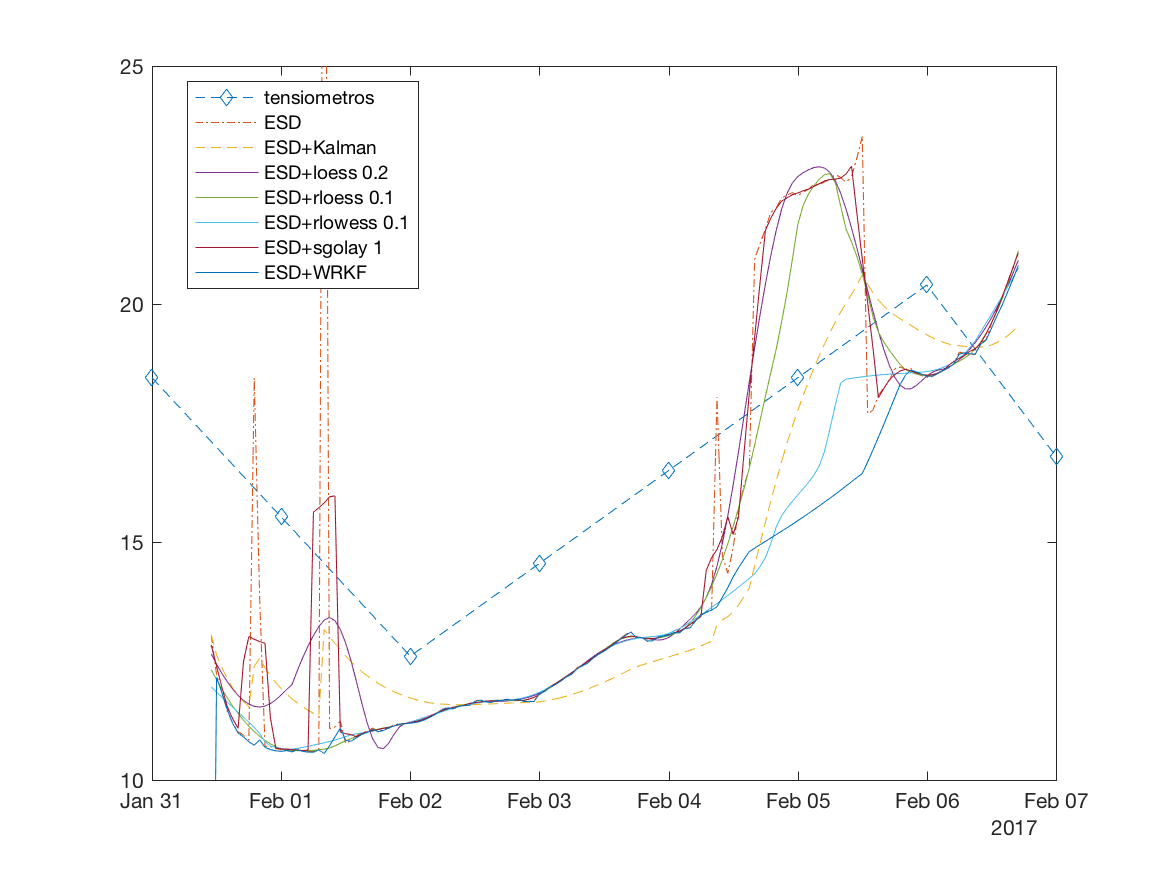
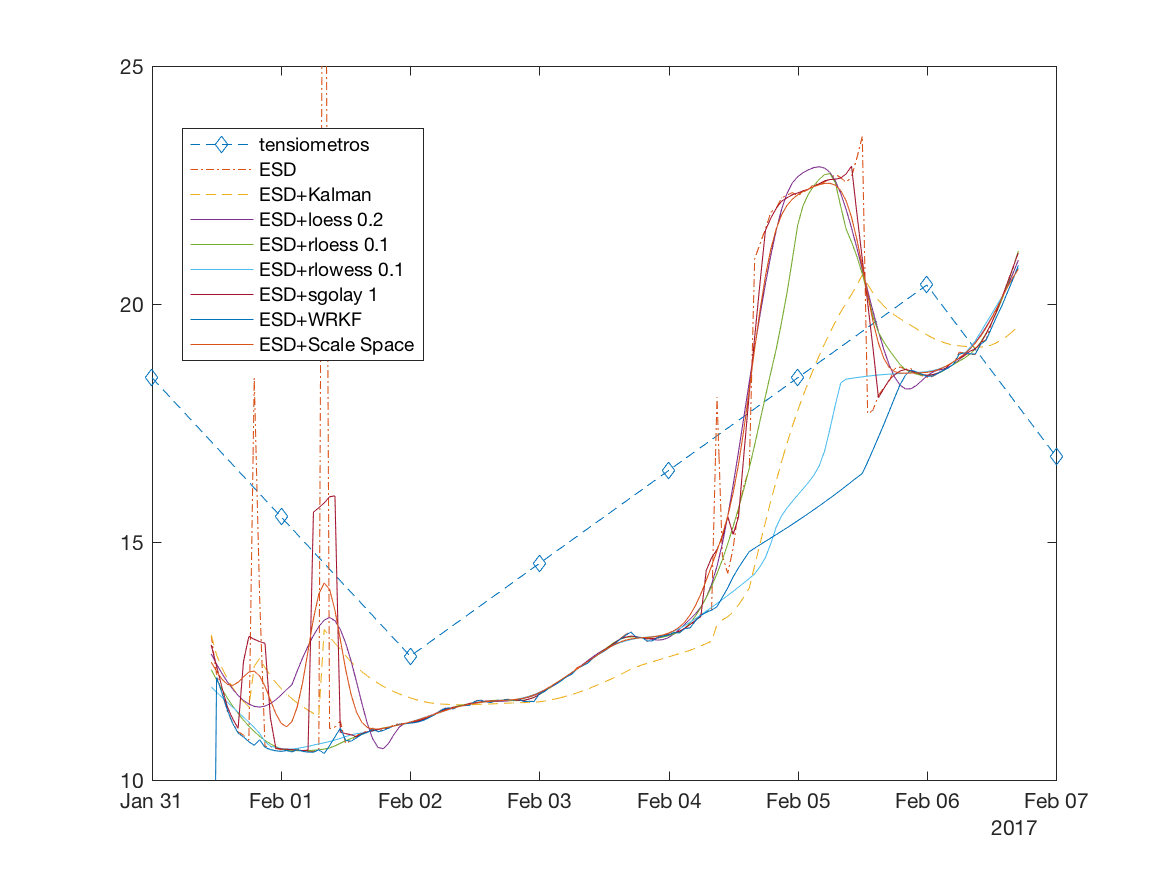
[matlab] atualizando gráficos comparativos de métodos de filtragem

Changed region(s): [[0.1542, 0.0926, 0.3702, 0.4011]]

diff --git a/matlab/graph_ESD_kalman_loess_sgolay_15cm.m b/matlab/graph_ESD_kalman_loess_sgolay_15cm.m
@@ -51,6 +51,10 @@ sgolay2 = smooth(sensor,'sgolay',2); % valor default
 sgolay3 = smooth(sensor,'sgolay',3);
 sgolay4 = smooth(sensor,'sgolay',4);
 
+% SCALE-SPACE
+% dados gerados pelo script 'python/scale-space/sensors.run.m'
+load('data/scale_space.mat','scale_space01');
+
 %% PLOTTING
 filtering = figure;
 plot(baterias_Mean.Date,baterias_Mean.baterias_p15cmMean,'--d','DisplayName','tensiometros');
@@ -90,13 +94,17 @@ plot(dateRange,sgolay1,'DisplayName','ESD+sgolay 1');
 % plot(dateRange,wrkf,'DisplayName','ESD+WRKF','Marker','square','Visible','on');
 plot(dateRange,wrkf,'DisplayName','ESD+WRKF');
 
+% SCALE-SPACE
+% resultados similares ao LOESS 0.2
+% plot(dateRange,wrkf,'DisplayName','ESD+WRKF','Marker','square','Visible','on');
+plot(dateRange,scale_space01,'DisplayName','ESD+Scale Space');
+
 % LEGEND
 hold off;
 legend('show','Location','best');
 
 % SET LIMIT
 xlim(periodoComparacao);
-% ylim([10 25]);
 ylim([18 70]);
 
 % SAVE

diff --git a/matlab/graph_ESD_kalman_loess_sgolay_75cm.m b/matlab/graph_ESD_kalman_loess_sgolay_75cm.m
@@ -51,6 +51,10 @@ sgolay2 = smooth(sensor,'sgolay',2); % valor default
 sgolay3 = smooth(sensor,'sgolay',3);
 sgolay4 = smooth(sensor,'sgolay',4);
 
+% SCALE-SPACE
+% dados gerados pelo script 'python/scale-space/sensors.run.m'
+load('data/scale_space.mat','scale_space03');
+
 %% PLOTTING
 filtering = figure;
 plot(baterias_Mean.Date,baterias_Mean.baterias_p75cmMean,'--d','DisplayName','tensiometros');
@@ -90,13 +94,17 @@ plot(dateRange,sgolay1,'DisplayName','ESD+sgolay 1');
 % plot(dateRange,wrkf,'DisplayName','ESD+WRKF','Marker','square','Visible','on');
 plot(dateRange,wrkf,'DisplayName','ESD+WRKF');
 
+% SCALE-SPACE
+% resultados similares ao LOESS 0.2
+% plot(dateRange,wrkf,'DisplayName','ESD+WRKF','Marker','square','Visible','on');
+plot(dateRange,scale_space03,'DisplayName','ESD+Scale Space');
+
 % LEGEND
 hold off;
 legend('show','Location','best');
 
 % SET LIMIT
 xlim(periodoComparacao);
-% ylim([10 25]);
 ylim([18 70]);
 
 % SAVE

diff --git a/matlab/graph_ESD_kalman_loess_sgolay_45cm.m b/matlab/graph_ESD_kalman_loess_sgolay_45cm.m
@@ -51,6 +51,10 @@ sgolay2 = smooth(sensor,'sgolay',2); % valor default
 sgolay3 = smooth(sensor,'sgolay',3);
 sgolay4 = smooth(sensor,'sgolay',4);
 
+% SCALE-SPACE
+% dados gerados pelo script 'python/scale-space/sensors.run.m'
+load('data/scale_space.mat','scale_space02');
+
 %% PLOTTING
 filtering = figure;
 plot(baterias_Mean.Date,baterias_Mean.baterias_p45cmMean*0.3,'--d','DisplayName','tensiometros');
@@ -89,6 +93,10 @@ plot(dateRange,sgolay1,'DisplayName','ESD+sgolay 1');
 % WRKF
 % plot(dateRange,wrkf,'DisplayName','ESD+WRKF','Marker','square','Visible','on');
 plot(dateRange,wrkf,'DisplayName','ESD+WRKF');
+
+% SCALE-SPACE
+% plot(dateRange,wrkf,'DisplayName','ESD+WRKF','Marker','square','Visible','on');
+plot(dateRange,scale_space02,'DisplayName','ESD+Scale Space');
 
 % LEGEND
 hold off;
